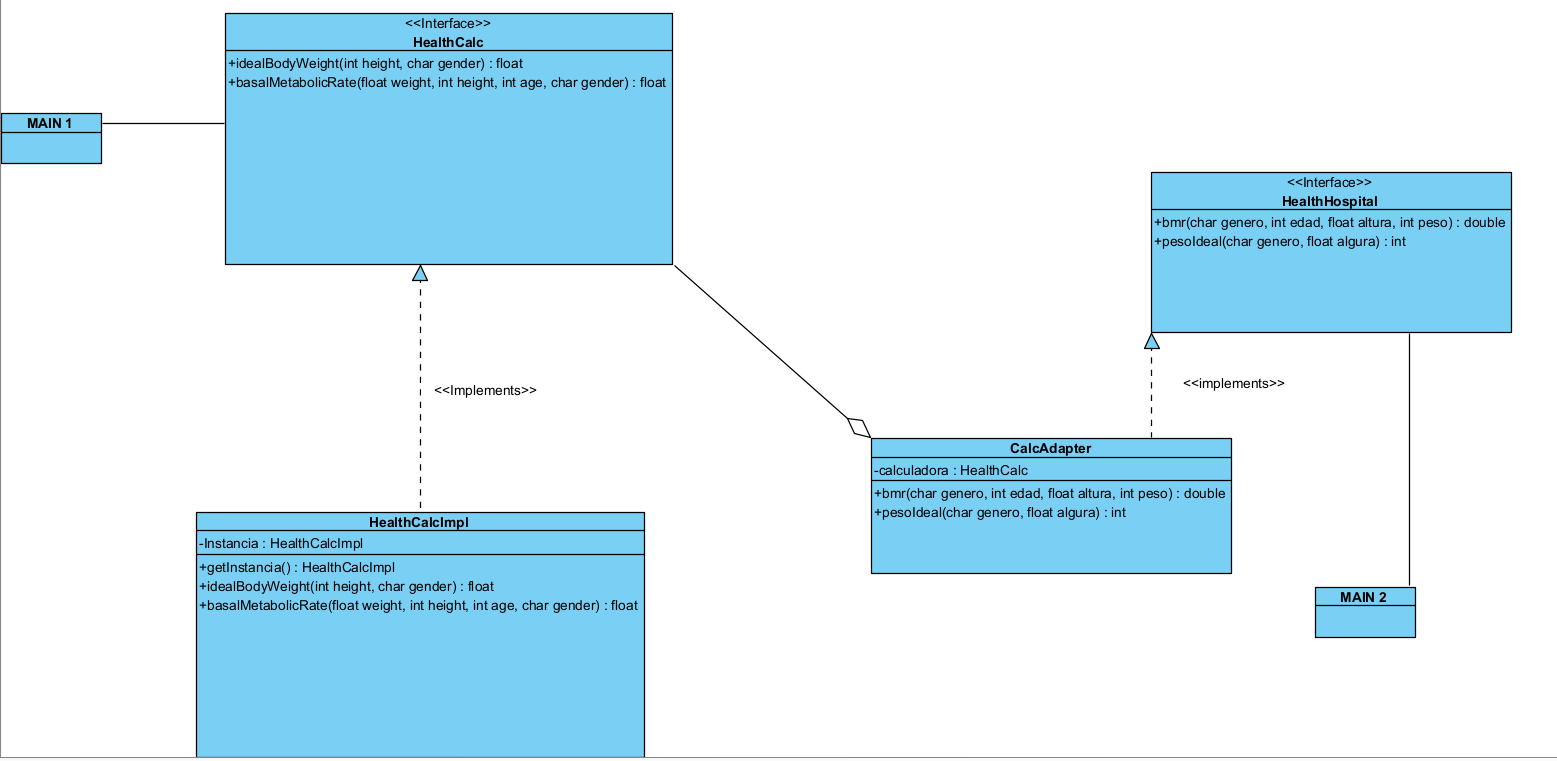
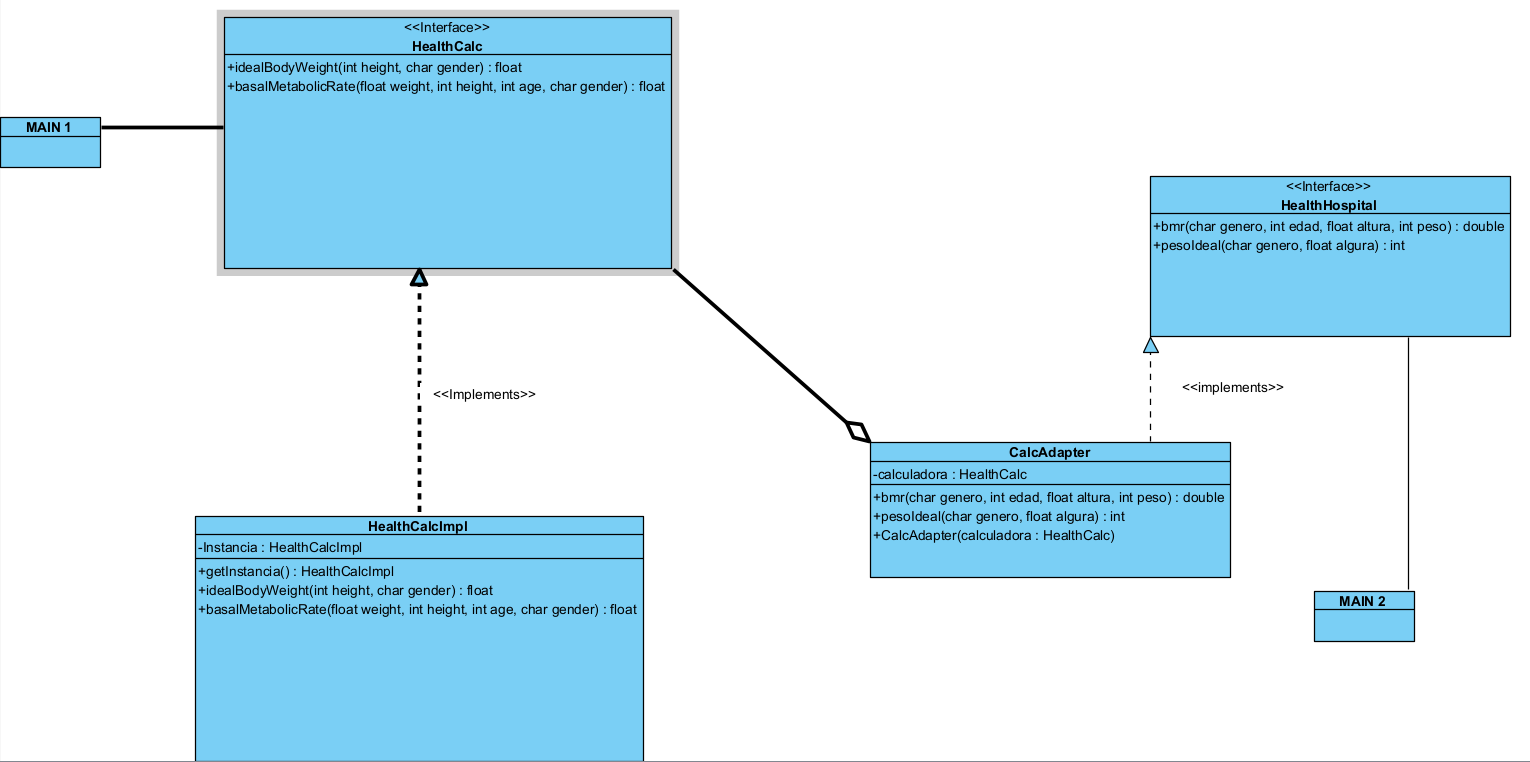
Implement Adapter Pattern

diff --git a/project-healthcalc/src/main/java/healthcalc/CalcAdapter.java b/project-healthcalc/src/main/java/healthcalc/CalcAdapter.java
@@ -1,0 +1,28 @@
+package healthcalc;
+
+public class CalcAdapter implements HealthHospital {
+
+    private HealthCalc calculadora;
+
+    public CalcAdapter(HealthCalc calculadora) {
+        this.calculadora = calculadora;
+    }
+
+
+    @Override
+    public double bmr(char genero, int edad, float altura, int peso) throws Exception {
+        int alturaint= (int) altura;
+        float pesoFloat= (float) peso;
+        float resultado=calculadora.basalMetabolicRate(pesoFloat, alturaint, edad, genero);
+        return resultado;
+ 
+    }
+    @Override
+    public int pesoIdeal(char genero, float altura) throws Exception {
+        int alturaint= (int) altura;
+        float resultado=calculadora.idealWeight(alturaint, genero);
+        return (int) resultado;
+    }
+
+    
+}

diff --git a/project-healthcalc/src/main/java/healthcalc/Main.java b/project-healthcalc/src/main/java/healthcalc/Main.java
@@ -1,0 +1,25 @@
+package healthcalc;
+
+
+    // TODO code application logic here
+
+public class Main {
+    public static void main(String[] args) {
+        // TODO code application logic here
+        HealthCalc c1 = HealthCalcImpl.getInstancia();
+        HealthHospital c= new CalcAdapter(c1);
+
+        try {
+            double bmr = c.bmr('m', 25, 180f, 75);
+            int pesoIdeal = c.pesoIdeal('m', 180f);
+            System.out.println("BMR: " + bmr);
+            System.out.println("Peso ideal: " + pesoIdeal);
+        } catch (Exception e) {
+            System.out.println("Error: " + e.getMessage());
+        }
+
+
+    }
+    
+}
+

diff --git a/project-healthcalc/src/main/java/healthcalc/HealthHospital.java b/project-healthcalc/src/main/java/healthcalc/HealthHospital.java
@@ -1,0 +1,8 @@
+package healthcalc;
+
+public interface HealthHospital {
+
+    public double bmr(char genero,int edad,float altura,int peso) throws Exception;
+    public int pesoIdeal(char genero,float altura) throws Exception;
+  
+}
